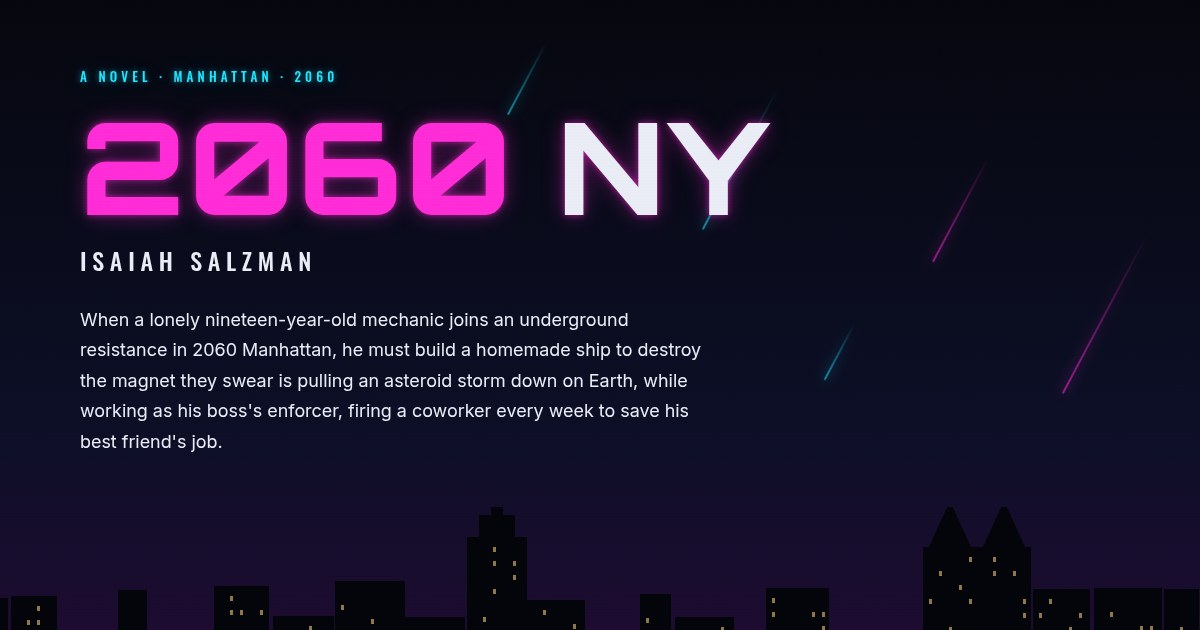
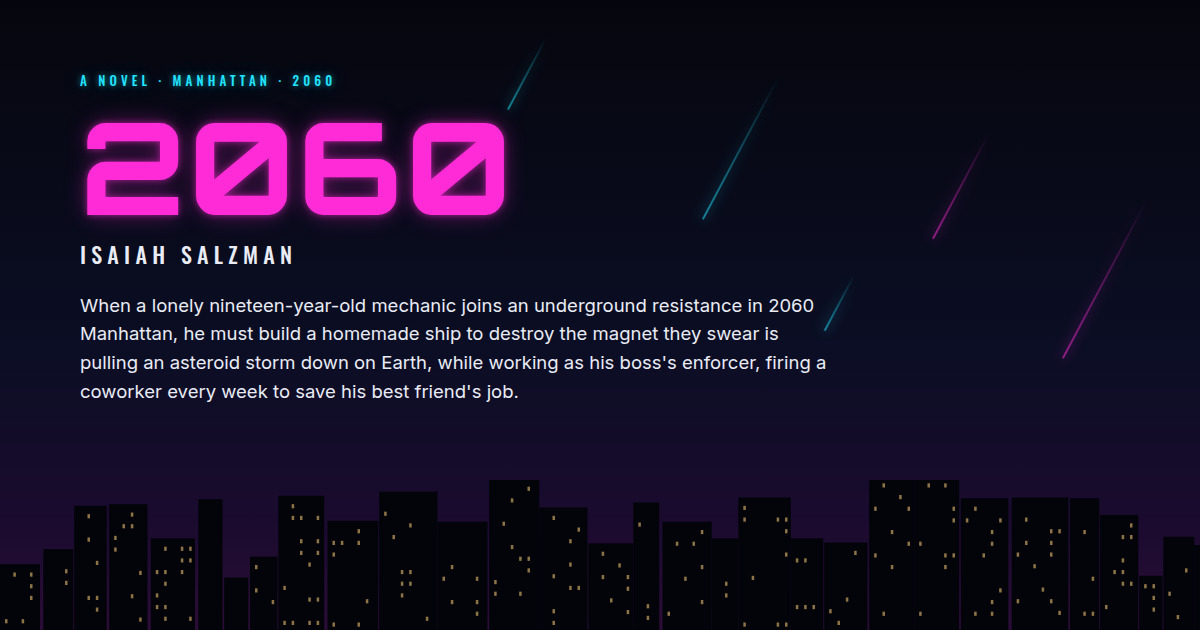
Update public title, status, comps, and bio (#2)
* Update the public title, status, comps, and bio.

The book title is now 2060 in the page and in share metadata. The status is Seeking representation, the comps are Coldwire and Silver Elite, and the shield twist is removed. The bio notes that 2060 was written at seventeen.

* Regenerate the share image with the 2060 title.

The card stays 1200 by 630 and uses the same hero type, skyline, and streaks. The old NY wordmark is gone.

---------

diff --git a/index.html b/index.html
@@ -3,8 +3,8 @@
 <head>
 <meta charset="utf-8">
 <meta name="viewport" content="width=device-width, initial-scale=1">
-<title>Isaiah Salzman — Author of 2060 NY</title>
-<meta name="description" content="A lonely mechanic, an underground resistance, and an asteroid storm that may be no accident. 2060 NY, a dystopian thriller by Isaiah Salzman.">
+<title>Isaiah Salzman — Author of 2060</title>
+<meta name="description" content="A lonely mechanic, an underground resistance, and an asteroid storm that may be no accident. 2060, a dystopian thriller by Isaiah Salzman.">
 <link rel="canonical" href="https://2060ny.com/">
 <meta name="robots" content="index, follow">
 <meta name="author" content="Isaiah Salzman">
@@ -12,17 +12,17 @@
 <!-- Open Graph -->
 <meta property="og:type" content="website">
 <meta property="og:site_name" content="Isaiah Salzman">
-<meta property="og:title" content="Isaiah Salzman — Author of 2060 NY">
-<meta property="og:description" content="A lonely mechanic, an underground resistance, and an asteroid storm that may be no accident. 2060 NY, a dystopian thriller by Isaiah Salzman.">
+<meta property="og:title" content="Isaiah Salzman — Author of 2060">
+<meta property="og:description" content="A lonely mechanic, an underground resistance, and an asteroid storm that may be no accident. 2060, a dystopian thriller by Isaiah Salzman.">
 <meta property="og:url" content="https://2060ny.com/">
 <meta property="og:image" content="https://2060ny.com/og-image.jpg">
 <meta property="og:image:width" content="1200">
 <meta property="og:image:height" content="630">
-<meta property="og:image:alt" content="2060 NY by Isaiah Salzman: neon title over a night Manhattan skyline">
+<meta property="og:image:alt" content="2060 by Isaiah Salzman: neon title over a night Manhattan skyline">
 <!-- Twitter / X -->
 <meta name="twitter:card" content="summary_large_image">
-<meta name="twitter:title" content="Isaiah Salzman — Author of 2060 NY">
-<meta name="twitter:description" content="A lonely mechanic, an underground resistance, and an asteroid storm that may be no accident. 2060 NY, a dystopian thriller by Isaiah Salzman.">
+<meta name="twitter:title" content="Isaiah Salzman — Author of 2060">
+<meta name="twitter:description" content="A lonely mechanic, an underground resistance, and an asteroid storm that may be no accident. 2060, a dystopian thriller by Isaiah Salzman.">
 <meta name="twitter:image" content="https://2060ny.com/og-image.jpg">
 
 <script type="application/ld+json">
@@ -36,12 +36,12 @@
       "url": "https://2060ny.com/",
       "email": "mailto:isaiahsalzman@gmail.com",
       "jobTitle": "Author",
-      "description": "Fourth-generation New Yorker and author of the debut novel 2060 NY."
+      "description": "Fourth-generation New Yorker and author of the debut novel 2060."
     },
     {
       "@type": "Book",
       "@id": "https://2060ny.com/#book",
-      "name": "2060 NY",
+      "name": "2060",
       "author": { "@id": "https://2060ny.com/#author" },
       "genre": ["Dystopian fiction", "Science fiction", "Thriller"],
       "inLanguage": "en",
@@ -208,10 +208,10 @@ footer a{color:var(--muted)}
       <div class="streaks" aria-hidden="true"><i></i><i></i><i></i><i></i><i></i></div>
     <div class="wrap">
       <p class="eyebrow">A novel · Manhattan · 2060</p>
-      <h1><span class="yr">2060</span> NY</h1>
+      <h1><span class="yr">2060</span></h1>
       <p class="author">Isaiah Salzman</p>
       <p class="logline">When a lonely nineteen-year-old mechanic joins an underground resistance in 2060 Manhattan, he must build a homemade ship to destroy the magnet they swear is pulling an asteroid storm down on Earth, while working as his boss's enforcer, firing a coworker every week to save his best friend's job.</p>
-      <p class="status">Debut novel · currently on submission to literary agents</p>
+      <p class="status">Debut novel · Seeking representation</p>
       <div class="btns">
         <a class="btn btn-primary" href="#newsletter">Join the newsletter</a>
         <a class="btn btn-ghost" href="#book">About the book</a>
@@ -227,22 +227,21 @@ footer a{color:var(--muted)}
   <!-- ABOUT THE BOOK -->
   <section id="book" aria-labelledby="book-h">
     <div class="wrap grid">
-      <div class="cover" role="img" aria-label="2060 NY by Isaiah Salzman, cover coming">
+      <div class="cover" role="img" aria-label="2060 by Isaiah Salzman, cover coming">
         <span>Cover coming</span>
-        <b>2060<br>NY</b>
+        <b>2060</b>
         <span>Isaiah Salzman</span>
       </div>
       <div>
         <p class="kicker">About the book</p>
-        <h2 id="book-h">2060 NY</h2>
+        <h2 id="book-h">2060</h2>
         <p class="meta">Adult near-future dystopian thriller with YA crossover appeal · Book 1 of a planned trilogy</p>
         <div class="blurb">
           <p>For twenty-one years, an asteroid storm has battered Earth, cutting off the colony on Mars and giving the government its mandate to ban elevators, electric heat, and space travel.</p>
           <p>Nineteen-year-old Alex Bontari is the best mechanic on a New Jersey oil rig and the loneliest man in Manhattan. Then an old-time New Yorker named Frank Ferguson leads him through a door behind a bookcase and into the sealed subway tunnels, where a resistance called the Last Generation swears the storm is no accident: the government is pulling the rocks down with a massive magnet. Ferguson is building a ship to destroy it, and he needs a mechanic.</p>
           <p>Alex says yes. But aboveground, his boss makes him the rig's enforcer: fire one coworker every week, or watch his best friend lose his job too. Worse, Alex is good at it.</p>
-          <p>Then a terrifying new account of the storm surfaces: it may be a shield against something out there. And Alex will have to fly straight into it without knowing which story is true.</p>
         </div>
-        <p class="comps">For readers of <cite>UPGRADE</cite> by Blake Crouch and <cite>THE LAST MURDER AT THE END OF THE WORLD</cite> by Stuart Turton.</p>
+        <p class="comps">For readers of <cite>COLDWIRE</cite> by Chloe Gong and <cite>SILVER ELITE</cite> by Dani Francis.</p>
       </div>
     </div>
   </section>
@@ -255,7 +254,7 @@ footer a{color:var(--muted)}
         <p class="kicker">About the author</p>
         <h2 id="author-h">Isaiah Salzman</h2>
         <div class="blurb">
-          <p>I'm a fourth-generation New Yorker, I'm eighteen, and I live in Israel. I've been writing for as long as I can remember, and 2060 NY is my debut novel.</p>
+          <p>I'm a fourth-generation New Yorker, I'm eighteen, and I live in Israel. I've been writing for as long as I can remember. I wrote 2060 at seventeen, and it's my debut novel.</p>
         </div>
       </div>
     </div>
@@ -267,11 +266,10 @@ footer a{color:var(--muted)}
       <p class="kicker">Newsletter</p>
       <div class="sample-cta">
         <a class="btn btn-primary btn-lg" href="Salzman_2060NY_Chapter1.pdf" download type="application/pdf">Read Chapter One (PDF)</a>
-        <p>Step into the tunnels. The first chapter of 2060 NY, free to download.</p>
+        <p>Step into the tunnels. The first chapter of 2060, free to download.</p>
       </div>
       <h2 id="news-h">Stay in the loop</h2>
-      <p>Updates on 2060 NY, news on publication, and the occasional look behind the scenes. A few emails a year, only when there's something worth saying.</p>
-      <!-- TODO: Buttondown username "isaiahsalzman" is pending account creation; the form won't work until that account exists. -->
+      <p>Updates on 2060, news on publication, and the occasional look behind the scenes. A few emails a year, only when there's something worth saying.</p>
       <form action="https://buttondown.com/api/emails/embed-subscribe/isaiahsalzman" method="post" target="popupwindow" onsubmit="window.open('https://buttondown.com/isaiahsalzman', 'popupwindow')" class="embeddable-buttondown-form">
         <input type="hidden" name="embed" value="1">
         <input type="hidden" name="tag" value="website">
